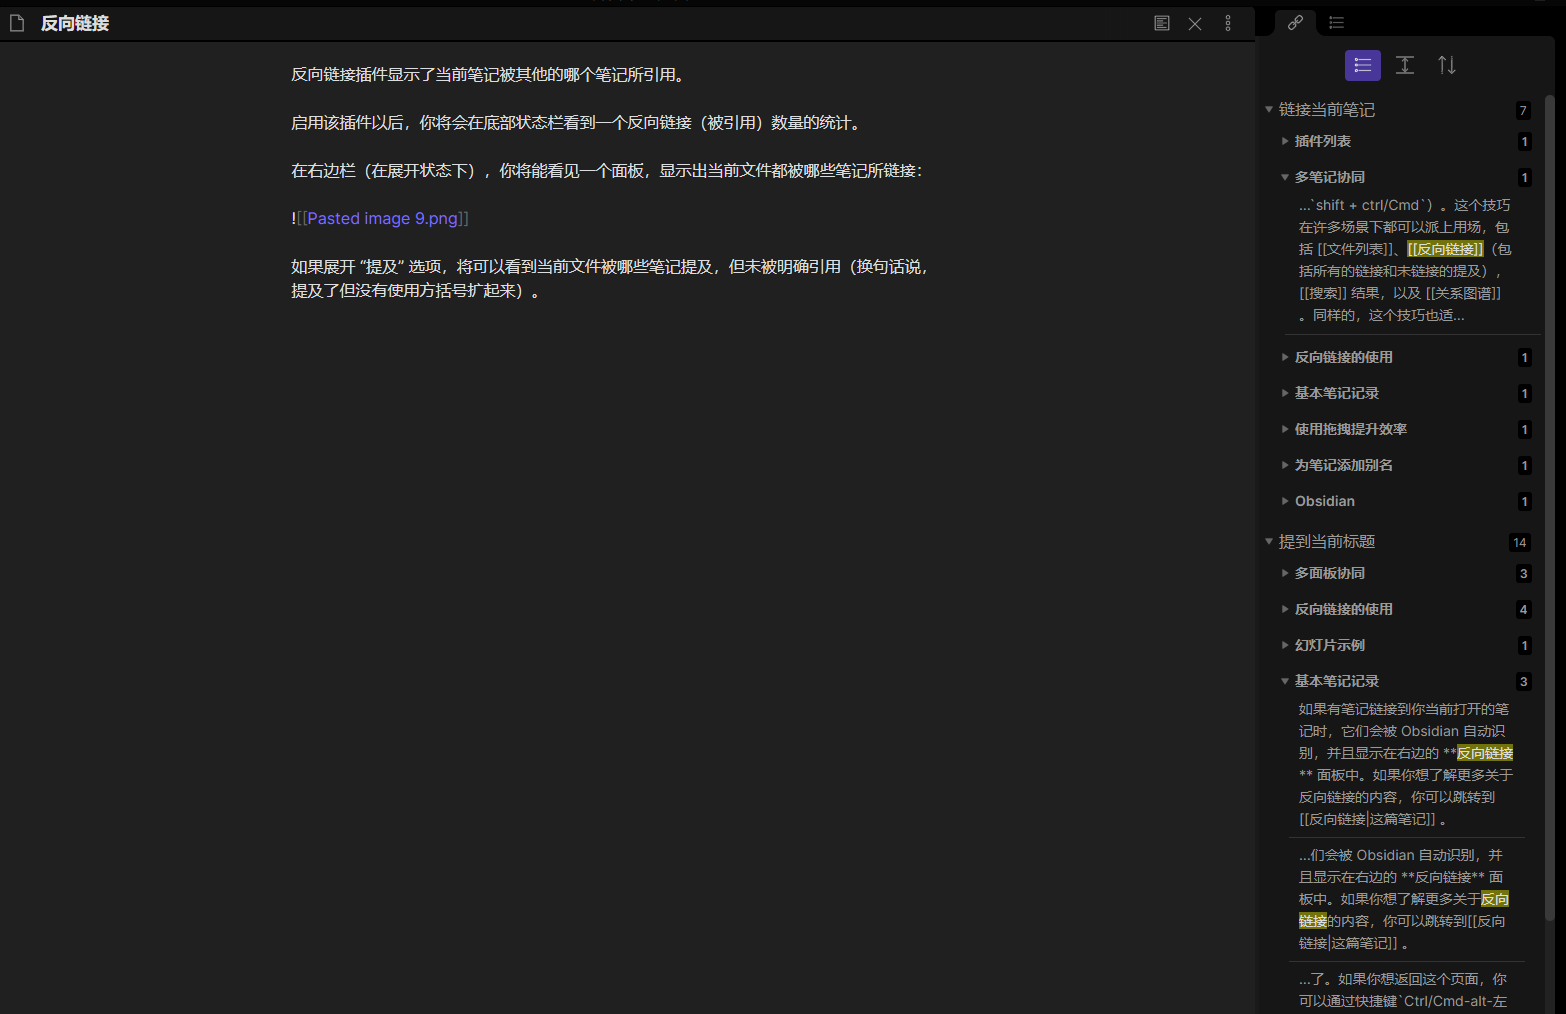
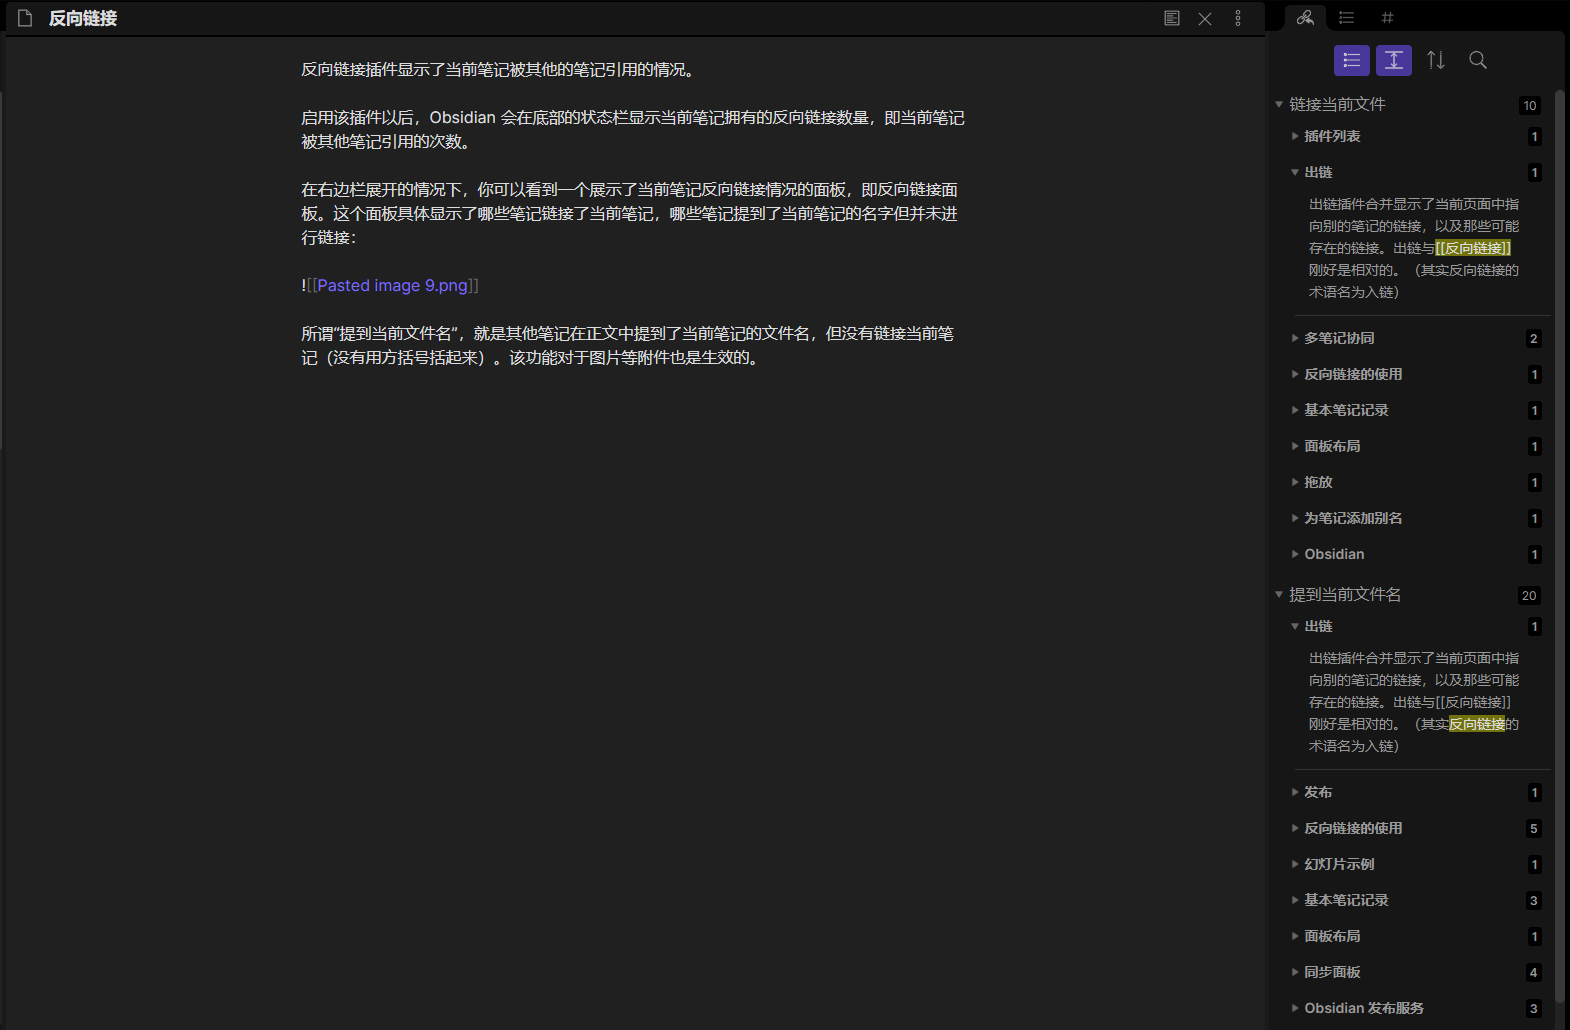
更新翻译
更新了新功能的翻译，同时将“css代码段”的翻译修改为“css代码片段”

diff --git a/zh/使用指南/快捷键.md b/zh/使用指南/快捷键.md
@@ -12,31 +12,35 @@
 | 打开快速切换             |     | `Ctrl/Cmd O`       |
 | 在所有文件中搜索         |     | `Ctrl/Cmd-Shift F` |
 | 查看关系图谱             |     | `Ctrl/Cmd G`       |
-| 为当前文件增加/取消星标  |     | 未设置              |
-| 开始录音                 |     | 未设置              |
-| 结束录音                 |     | 未设置              |
-| 打开 Markdown 格式转换器 |     | 未设置              |
-| 打开/创建今日的笔记      |     | 未设置              |
-| 创建新的 ZK 卡片         |     | 未设置              |
-| 开始漫游笔记             |     | 未设置              |
+| 为当前文件增加/取消星标  |     | 未设置             |
+| 开始录音                 |     | 未设置             |
+| 结束录音                 |     | 未设置             |
+| 打开 Markdown 格式转换器 |     | 未设置             |
+| 打开/创建今日的笔记      |     | 未设置             |
+| 创建新的 ZK 卡片         |     | 未设置             |
+| 开始漫游笔记             |     | 未设置             |
 | 后退                     |     | `Ctrl/Cmd-alt ←`   |
 | 前进                     |     | `Ctrl/Cmd-alt →`   |
-| 使用黑暗模式             |     | 未设置              |
-| 使用明亮模式             |     | 未设置              |
+| 使用黑暗模式             |     | 未设置             |
+| 使用明亮模式             |     | 未设置             |
 | 在当前笔记中查找         |     | `Ctrl/Cmd F`       |
 | 切换编辑/预览模式        |     | `Ctrl/Cmd E`       |
-| 删除当前文件             |     | 未设置              |
-| 左右拆分                 |     | 未设置              |
-| 上下拆分                 |     | 未设置              |
-| 关闭当前面板             |     | 未设置              |
-| 关闭所有其他面板         |     | 未设置              |
+| 删除当前文件             |     | 未设置             |
+| 左右拆分                 |     | 未设置             |
+| 上下拆分                 |     | 未设置             |
+| 关闭当前面板             |     | 未设置             |
+| 关闭所有其他面板         |     | 未设置             |
 | 打开设置                 |     | `Ctrl/Cmd ,`       |
 
 **编辑**
 
-| 功能                   |     | 快捷键       |
-| ---------------------- | --- | ------------ |
-| 切换所选文本的粗体效果 |     | `Ctrl/Cmd B` |
-| 切换所选文本的斜体效果 |     | `Ctrl/Cmd I` |
-| 插入链接               |     | `Ctrl/Cmd K` |
+| 功能                   |     | 快捷键          |
+| ---------------------- | --- | --------------- |
+| 切换所选文本的粗体效果 |     | `Ctrl/Cmd B`    |
+| 切换所选文本的斜体效果 |     | `Ctrl/Cmd I`    |
+| 插入链接               |     | `Ctrl/Cmd K`    |
+| 缩进                   |     | `Ctrl/Cmd-]`    |
+| 取消缩进               |     | `Ctrl/Cmd-[`    |
+| 打开所选链接           |     | `Alt/Opt-Enter` |
+
 

diff --git a/zh/使用指南/反向链接的使用.md b/zh/使用指南/反向链接的使用.md
@@ -1,13 +1,13 @@
-反向链接是 Obsidian 最有用的特性之一。然而，在某些情况下这项功能可能会使你感到困惑。以下是一些你可能用得上的说明。
+反向链接是 Obsidian 最有用的功能之一。然而，在某些情况下，你可能会对它感到困惑。以下是一些你可能用得上的说明。
 
-反向链接面板由两大部分组成，`链接当前笔记` 和 `提到当前标题`。
+反向链接面板由两大部分组成，`链接当前文件` 和 `提到当前文件名`。
 
 ![[反向链接.png]]
 
-以[[反向链接]]这篇笔记为例。如你所见，在这篇笔记的反向链接面板中，每个部分都有许多笔记。在 `链接当前笔记` 这个部分，你可以发现我在[[多笔记协同]]这篇笔记中链接了这篇笔记。同时，你也可以发现，在 `提到当前标题` 这个部分，我在[[基本笔记记录]]这篇笔记中提到了这篇笔记但并没有进行链接。
+以[[反向链接]]这篇笔记为例。如你所见，在这篇笔记的反向链接面板中，每个部分都有许多笔记。在 `链接当前文件` 这个部分，你可以发现我在[[多笔记协同]]这篇笔记中链接了这篇笔记。同时，你也可以发现，在 `提到当前文件名` 这个部分，我在[[基本笔记记录]]这篇笔记中提到了这篇笔记但并没有进行链接。
 
 这是一个非常强大的功能，它能让你更好地了解笔记之间的联系，即使是那些你先前并没有发现的联系。举个例子，假设你以某个概念为名写了一篇笔记。这样，当其他笔记提到这个概念时，Obsidian 会让你轻松地发现哪些笔记提到了这个概念，从而让你能够挖掘不同想法间潜在关联，新的想法也就能由此产生。
 
 如果你想让那些“提到当前标题”的笔记链接当前笔记的话，只需要让鼠标悬停在那些笔记上，再点击 `转为内部链接` 按钮即可。点击这个按钮会自动地为这些标题加上方括号，从而将其转换为内部连接。
 
-你也可以在面板右上角的 `更多选项` 按钮中点击 `打开反向链接面板` 选项，从而打开一个独立的反向链接面板（或者你也可以使用[[命令面板]]来完成这一操作）。这个面板是与当前笔记[[同步面板|同步]]的。同时，这个面板也如[[面板布局]]中所描述那般，可以随意拖动。
+你也可以在面板右上角的 `更多选项` 按钮中点击 `打开反向链接面板` 选项，从而打开一个独立的反向链接面板（或者你也可以使用[[命令面板]]来完成这一操作）。这个面板是与当前笔记[[同步面板|同步]]的。你也可以取消同步。同时，这个面板也如[[面板布局]]中所描述那般，可以随意拖动。

diff --git a/zh/使用指南/添加自定义主题.md b/zh/使用指南/添加自定义主题.md
@@ -18,13 +18,13 @@ Obsidian 允许你使用自己设计的主题文件：
 
 想要了解如何自定义关系图谱的外观，请阅读[[关系图谱]]。
 
-### 使用社区主题或 CSS 代码段
+### 使用社区主题或 CSS 代码片段
 
 你可以在`设置` -> `外观`中找到`查看社区主题`这一选项	，随后你就可以选择一个社区主题来美化你的 Obsidian。一旦确认使用，社区主题就会被自动保存在本地的主题存放路径中。这和存放自定义主题的路径是一样的。
 
-当然，不见得你会喜欢社区主题的所有设置。因此你可以通过 CSS 代码段来细微修改社区主题，从而使其更符合你的喜好。所谓 CSS 代码段指的是仅包含几行 CSS 代码的`.CSS`文件。在 Obsidian 中，这些片段比主题文件有更高的优先级，所以主题的一些设置会被代码段覆盖，从而达到细微修改主题文件的效果。CSS 代码段需要保存到相应路径并且在设置中开启后才能生效，你可以在`设置` -> `外观`-> `CSS代码段`中开启 CSS 代码段。
+当然，不见得你会喜欢社区主题的所有设置。因此你可以通过 CSS 代码片段来细微修改社区主题，从而使其更符合你的喜好。所谓 CSS 代码片段指的是仅包含几行 CSS 代码的`.CSS`文件。在 Obsidian 中，这些片段比主题文件有更高的优先级，所以主题的一些设置会被代码片段覆盖，从而达到细微修改主题文件的效果。CSS 代码片段需要保存到相应路径并且在设置中开启后才能生效，你可以在`设置` -> `外观`-> `CSS代码片段`中开启 CSS 代码片段。
 
-你无需记忆主题文件或 CSS 代码段的存放路径，`外观`设置中都有相应的按钮（文件夹图标的按钮），点击即可打开相应的存放目录。如果该目录未创建，点击按钮时其将会被自动创建。如果将主题文件或 CSS 代码段文件放入后仍无法在 Obsidian 的菜单中看到它们，你需要点击以下`外观`设置中的刷新按钮（循环图标的按钮），随后列表就会被刷新，你就能看到它们了。
+你无需记忆主题文件或 CSS 代码片段的存放路径，`外观`设置中都有相应的按钮（文件夹图标的按钮），点击即可打开相应的存放目录。如果该目录未创建，点击按钮时其将会被自动创建。如果将主题文件或 CSS 代码片段文件放入后仍无法在 Obsidian 的菜单中看到它们，你需要点击以下`外观`设置中的刷新按钮（循环图标的按钮），随后列表就会被刷新，你就能看到它们了。
 
 ## 为 Obsidian 发布功能设置自定义主题
 

diff --git a/zh/插件/Note composer.md b/zh/插件/Note composer.md
@@ -1,0 +1,42 @@
+The Note composer plugin allows you to easily merge two note or extract part of a note into its own note.
+
+## Merge
+
+When working with the file, you can choose "Merge entire file with..." in the More Options menu.
+
+Alternatively, you can open [[Command palette]] and invoke the command "Note composer: Merge current file with another file...".
+
+This will bring up a menu to choose a file to merge into. Once you confirm the merge, all links to the current note will be updated to the merged file.
+
+The current note will be merged to the bottom by default; you can use `Shift-Enter` instead of `Enter` to merge it to the top.
+
+## Extract
+
+When selecting text, you can either right click on it, select "Extract current selection", or use the [[Command palette]] to find the "Note composer: Extract current selection..." command.
+
+Similar to merging, this will bring up a menu to choose a file to extract into. If no result can be found, a new note will be created. If you want to create a new note instead of using the first result, press `Ctrl-Enter` (or `Cmd-Enter` on macOS).
+
+## Options
+
+Note Composer has a few helpful plugin options.
+
+### Text after moving
+
+After you extract a piece of text, it's often a good idea to leave a link to the new file. By default, a link is created. But you can also change this option to have an embed created for you, or insert nothing at all.
+
+### Template file
+
+When merging or extracting, instead of just sending over the content, you can also apply a template file to it.
+
+This template file can contain the following variables:
+
+- `{{content}}`: this is where the content will be placed. If you do not include this variable, the content will automatically be placed at the bottom of the template.
+- `{{fromTitle}}`: the name of the note where the new note comes from.
+- `{{newTitle}}`: the title of the new file. Convenient if you prefer to have a heading at the top of the file that's the same as the file name.
+- `{{date:FORMAT}}`: you can add multiple dates with your custom format. For example, you can do `{{date:YYYY-MM-DD}}` and it will resolve to the date or time when the note gets created.
+
+### Confirm file merge
+
+Merging files will delete the file and is destructive, so by default we ask for your confirmation. If you prefer, you can choose to skip this confirmation.
+
+In case you accidentally merged something and want to get it back, consider using the [[File recovery]] plugin to recover it.

diff --git a/zh/Obsidian/安卓端app.md b/zh/Obsidian/安卓端app.md
@@ -1,0 +1,43 @@
+安卓端 app 现已公开，下载方式可见[我们的网站](https://obsidian.md/mobile)。
+
+
+## 同步
+
+对于安卓端来说，你可以选择 [[Obsidian 同步服务]]来同步你的笔记，也可以使用第三方同步服务。
+
+
+### Obsidian 同步服务
+
+
+和桌面端一样，[[Obsidian 同步服务]]也是内置于安卓端中。
+
+要在安卓端上使用同步服务，首先要新建一个空白的库。这个库应该与桌面端中使用的库名称一致，这样[[使用 obsidian URI|obsidian URII]] 才能正常工作。
+
+随后，打开这个空白的库，在左侧边栏中打开设置，然后像桌面端一样启动同步服务：
+
+1. 在账户页面登录你的 Obsidian 账号。
+2. 在核心插件中启动 `同步` 插件。
+3. 打开设置中 `插件选项` 下方的 ` 同步` 标签页。
+4. 选择一个远程库，连接。
+5. 保持 app 打开直到所有文件同步完成。
+
+想要查看同步服务的同步状态，需要在屏幕上左滑，拉出右侧边栏，随后你就能看到和桌面端一样的同步状态标志。点击标志能查看更多同步信息，比如同步日志等。
+
+### 第三方同步服务
+
+你也可以使用你喜欢的第三方同步服务。
+
+以下是一些可以用于同步的软件，如[Dropsync](https://play.google.com/store/apps/details?id=com.ttxapps.dropsync) 或 [FolderSync](https://play.google.com/store/apps/details?id=dk.tacit.android.foldersync.lite)。
+
+## 存储权限
+
+当你启动安卓端时，安卓端会向你请求访问当前设备上文档（Document）文件夹以及访问媒体文件的权限。
+
+理想情况下，我们仅所需库文件夹的访问权限即可。但安卓系统为了更好的保护用户隐私，其文件许可 API （也被称为范围存储）的一些限制可能会让 Obsidian 无法正常工作。
+
+其中最大的两个限制在于：
+
+- 范围存储会对每个文件的访问执行许多额外的许可检查，这可能会造成 Obsidian 启动、使用时性能下降。
+- 范围存储无法从外部监视修改，这使得很多第三方同步服务无法应用于 Obsidian。
+
+谷歌特别为这类应用程序的开发者提供了特殊许可。黑曜石属于以下两种类型：“文档管理应用程序”和“设备上的文件搜索应用程序”。[点击这里了解更多相关信息](https://developer.android.com/training/data-storage/manage-all-files)。

diff --git a/zh/Obsidian/移动端测试.md b/zh/Obsidian/移动端测试.md
@@ -1,14 +1,16 @@
-## 测试说明
+## 公开发布
 
-自 2021/04/26 起，移动端 app 开始进行封闭内测。所有拥有 Catalyst 个人许可证的用户都能参与测试。
+移动端 app 现已公开发布。你可以在[我们的网站](https://obsidian.md/mobile)上找到下载链接。
 
-几周或几月后，一旦 app 表现稳定，我们将会对公众开放移动端。
+## 文档
 
-## 获得测试资格
+想了解更多关于如何使用移动端的信息，比如如何设置同步，请看 [[Obsidian移动端]]。
 
-拥有 [Catalyst 个人许可证](https://obsidian.md/pricing)的用户才能参与封闭测试。
+## 内部版本
 
-由于我们无法通过电子邮件来修复 bug 和收集反馈建议，也为了更好地发布 app，我们需要参加封闭测试的 Catalyst 用户完成以下步骤：
+如果你有 [Catalyst 个人许可证](https://obsidian.md/pricing)，你可以获得移动端的内部版本。
+
+由于我们无法通过电子邮件来修复 bug 和收集反馈建议，也为了更好地发布 app，我们需要想获得移动端内部版本的 Catalyst 用户完成以下步骤：
 
 ### 1. 加入 Discord
 

diff --git a/zh/插件/反向链接.md b/zh/插件/反向链接.md
@@ -2,8 +2,8 @@
 
 启用该插件以后，Obsidian 会在底部的状态栏显示当前笔记拥有的反向链接数量，即当前笔记被其他笔记引用的次数。
 
-在右边栏展开的情况下，你可以看到一个展示了当前笔记反向链接情况的面板，即反向链接面板。这个面板具体显示了哪些笔记引用了当前笔记，哪些笔记提到了当前笔记但并未进行链接：
+在右边栏展开的情况下，你可以看到一个展示了当前笔记反向链接情况的面板，即反向链接面板。这个面板具体显示了哪些笔记链接了当前笔记，哪些笔记提到了当前笔记的名字但并未进行链接：
 
 ![[Pasted image 9.png]]
 
-所谓“提到当前标题”，就是笔记正文中提到了当前笔记标题，但没有链接（没有用方括号括起来）。
+所谓“提到当前文件名”，就是其他笔记在正文中提到了当前笔记的文件名，但没有链接当前笔记（没有用方括号括起来）。该功能对于图片等附件也是生效的。

diff --git a/zh/使用指南/内部链接.md b/zh/使用指南/内部链接.md
@@ -1,9 +1,8 @@
-在 Obsidian 中，内部链接是你知识网络的重要组成部分。
+在 Obsidian 中，内部链接是你知识网络的重要组成部分。所谓内部链接指的是从库中某篇笔记出发，指向库中其他文件的链接。反之，如果是从库中某篇笔记指向库外的文件、网页，则为外部链接。
 
 ### 链接文件
 
 创建内部链接非常简单，只需要输入 `[[`，并从弹出的列表里选择自己需要链接的文件即可。你可以通过上下方向键或输入关键词来选择文件，当所需文件被选中（高亮）时按下回车键即可完成链接。
-
 
 ### 链接标题
 

diff --git a/zh/高级用法/自定义 CSS.md b/zh/高级用法/自定义 CSS.md
@@ -11,4 +11,4 @@
 
 Klaas 还提供了一个常用 CSS 代码片段索引，你可以将这些片段随意组合，搭配出自己的 CSS：
 
-> [Obsidian CSS 代码段 (on GitHub)](https://github.com/Dmitriy-Shulha/obsidian-css-snippets/tree/master/Snippets)
+> [Obsidian CSS 代码片段 (on GitHub)](https://github.com/Dmitriy-Shulha/obsidian-css-snippets/tree/master/Snippets)
